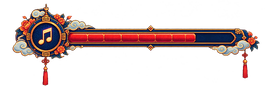
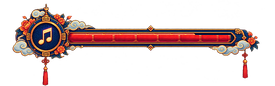
Niveau 2 refait sur les mécaniques du niveau 1, barre de vie pleine - objectif affiché au début de chaque niveau + indices dans le décor

diff --git a/games/2026/maestro/js/niveau1.js b/games/2026/maestro/js/niveau1.js
@@ -515,7 +515,7 @@ export default class niveau1 extends Phaser.Scene {
     // Barre de vie en haut à gauche : l'image de la barre est rouge partout, et un rectangle
     // de la couleur du fond de la barre cache la partie "vide" (il grandit quand on perd des vies)
     fixe(this.add.image(10, 8, "img_barre_vie").setOrigin(0, 0));
-    this.videBarre = fixe(this.add.rectangle(10 + 196, 8 + 35, 0, 8, 0x041e48).setOrigin(1, 0));
+    this.videBarre = fixe(this.add.rectangle(10 + 231, 8 + 35, 0, 8, 0x041e48).setOrigin(1, 0));
 
     // Note choisie par la Cantatrice
     this.texteNote = fixe(
@@ -1233,9 +1233,9 @@ export default class niveau1 extends Phaser.Scene {
   //  Interface
   // --------------------------------------------------------------------------
   majCoeurs() {
-    // la partie rouge va de x = 68 à x = 196 dans l'image (128 px) : on cache la fraction perdue
+    // la partie rouge va de x = 68 à x = 231 dans l'image (163 px) : on cache la fraction perdue
     const perdu = 1 - Math.max(this.vies, 0) / this.viesMax;
-    this.videBarre.setSize(128 * perdu, 8); // setSize (et pas .width) pour que le dessin change vraiment
+    this.videBarre.setSize(163 * perdu, 8); // setSize (et pas .width) pour que le dessin change vraiment
   }
 
   majNote() {

diff --git a/games/2026/maestro/js/niveau2.js b/games/2026/maestro/js/niveau2.js
@@ -250,8 +250,9 @@ export default class niveau2 extends niveau1 {
   // Devant la porte : si elle est fermée on explique pourquoi, sinon le niveau est gagné
   franchirPorte() {
     if (this.porteOuverte == false) {
-      if (this.time.now > this.messageJusqua) {
+      if (this.time.now > (this.prochaineAlertePorte || 0)) {
         this.afficherMessage("Il te faut " + LAMPES_REQUISES + " lampes pour ouvrir la porte !", 2000);
+        this.prochaineAlertePorte = this.time.now + 2500; // on ne répète pas le message à chaque image
       }
       return;
     }
